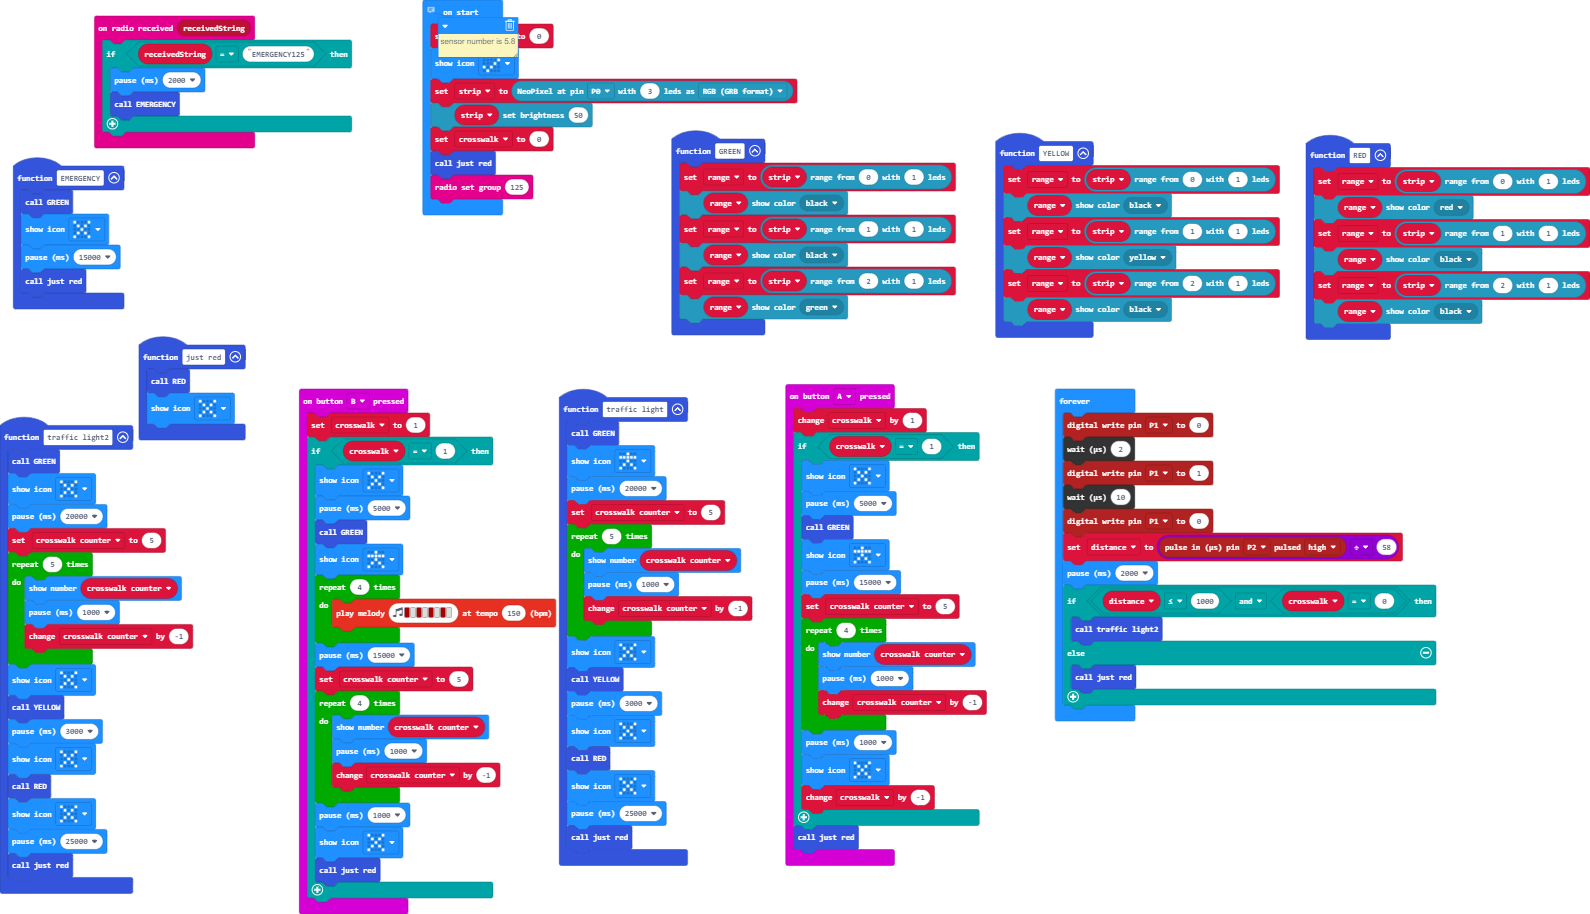
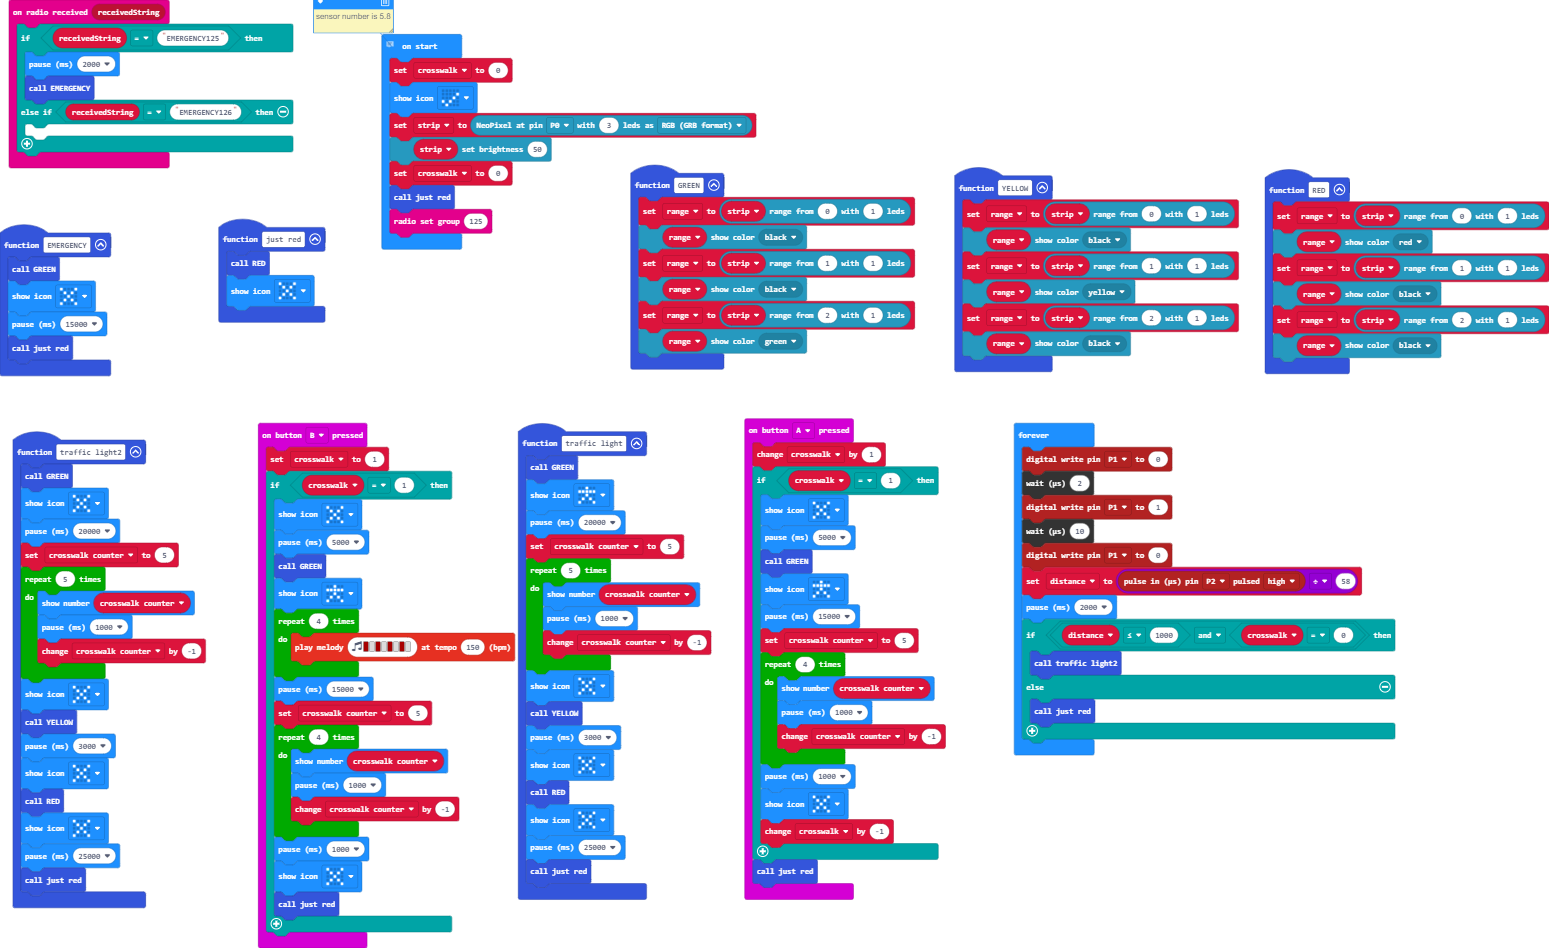
Update main.blocks, main.ts

diff --git a/main.ts b/main.ts
@@ -80,6 +80,8 @@ radio.onReceivedString(function (receivedString) {
     if (receivedString == "EMERGENCY125") {
         basic.pause(2000)
         EMERGENCY()
+    } else if (receivedString == "EMERGENCY126") {
+    	
     }
 })
 input.onButtonPressed(Button.B, function () {
